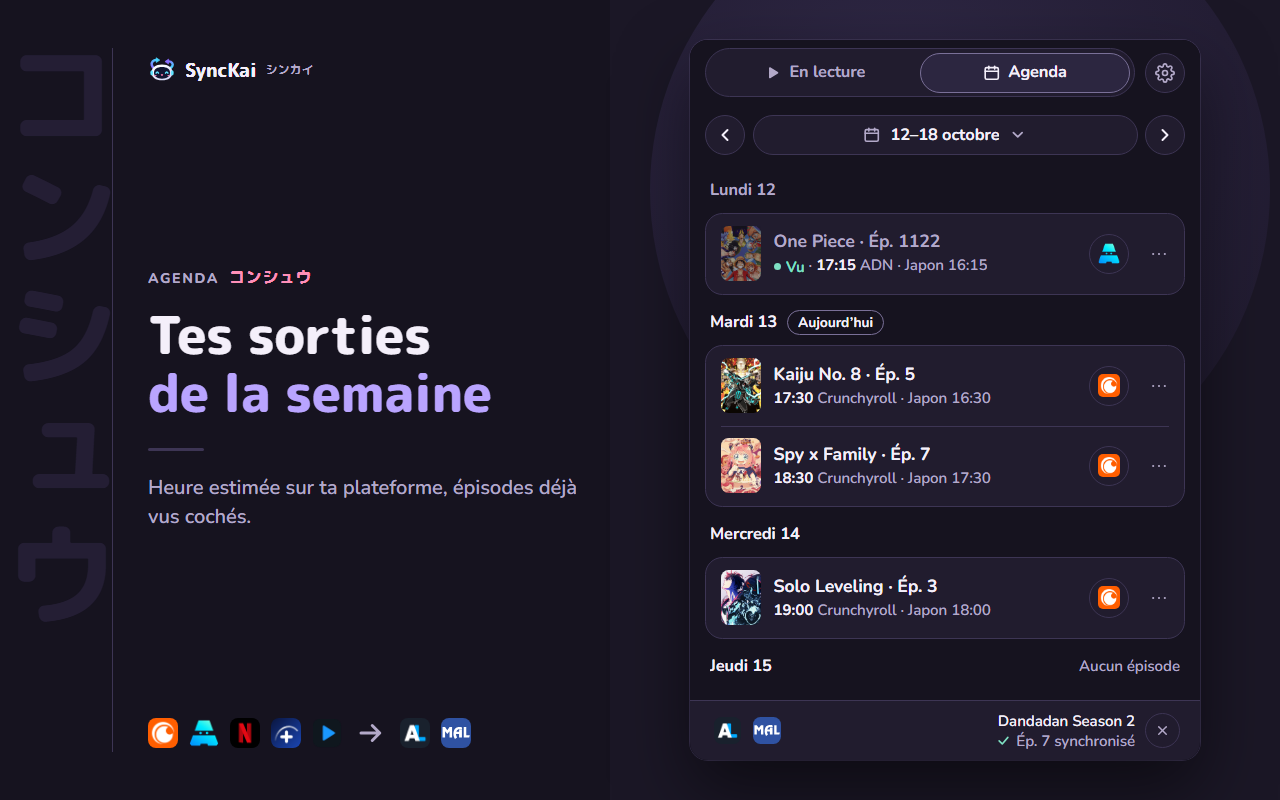
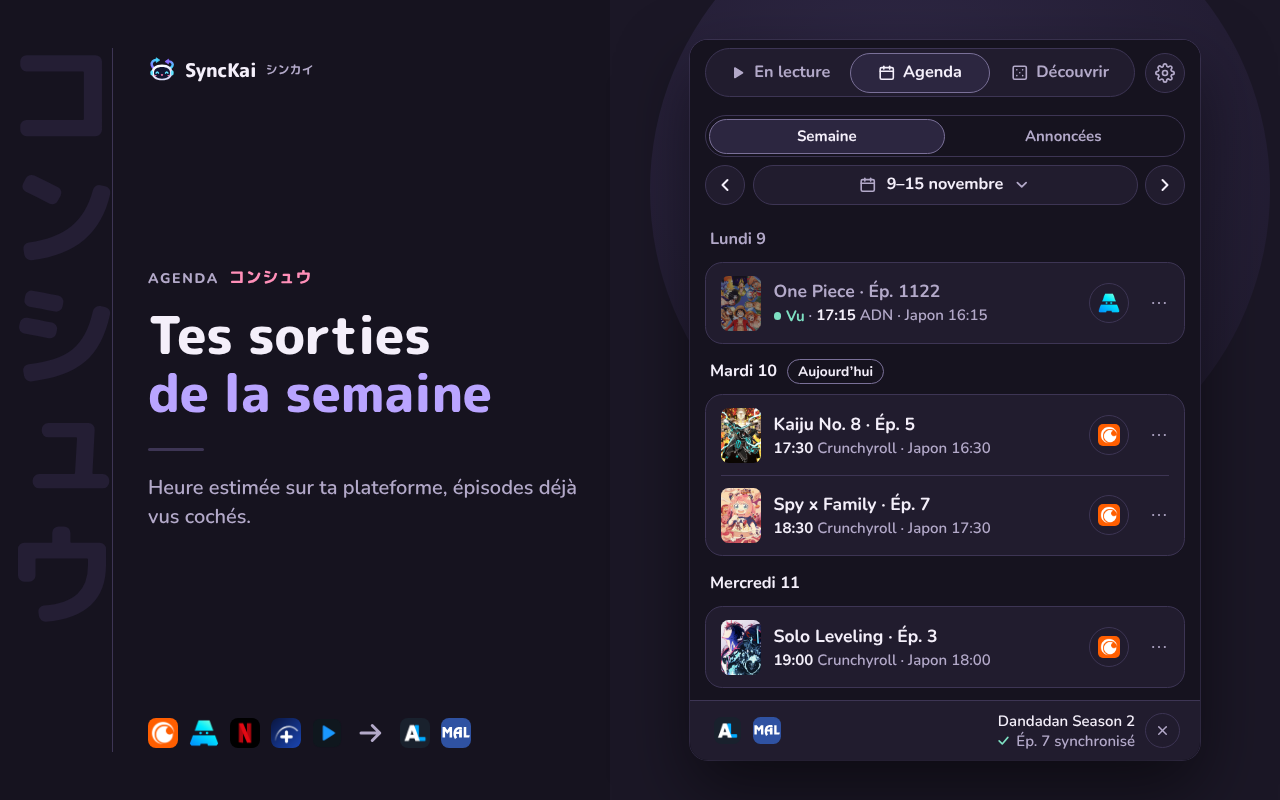
chore(release): 2.5.0

diff --git a/CHANGELOG.md b/CHANGELOG.md
@@ -5,6 +5,28 @@ Format based on [Keep a Changelog](https://keepachangelog.com/en/1.1.0/), versio
 
 ## [Unreleased]
 
+## [2.5.0] - 2026-11-10
+
+### Added
+
+- **Sequel alerts**: once a day, SyncKai checks on AniList whether a series you finished or are watching got a sequel, and tells you with a browser notification (« Sequel announced: … », with *Open entry* and *+ Plan to watch*) or, if you prefer, only in the popup's *Activity* tab. The side panel's *Schedule* gains an *Announced* view with the coming sequels, and the related entries of *Now playing* mark them. Turn it on or off in *Settings › Notifications › Sequel alerts*. Sequels already in one of your lists are never announced.
+- **Watch order** in the side panel: *Now playing* shows the whole franchise in release order (seasons, films, OVAs, side stories), with what you watched on AniList or MyAnimeList ticked off, what comes next and a *Watch* button on your preferred player. Runs of watched entries fold into one line (« 4 watched »).
+- **Recommendations**, read from AniList only: a new *Discover* tab in the side panel suggests series from what you rated highly (« Because you rated … ★ 9/10 ») or, without enough ratings, from what you watched, with their genres, *+ Plan to watch* and *Not interested*. *Now playing* adds an *In the same spirit* section, an empty *Schedule* week and an empty *Watching* list suggest a few series, and the suggestions you turned down can be restored from *Settings › My data*. A sequel is never suggested before the season you have not watched.
+- **Remaining time**: each series in *My series* shows the time left to catch up (« ≈ 50 min », episodes aired × their length), the list header the total (« ≈ 1 h to catch up · 2 series »), and two new sorts, *Time left* and *Episodes left*.
+- **Dormant series**: *Watching* series with no episode watched for 30 days (60, 90 or never in *Settings › Display*) are grouped at the bottom of *My series*, with *Pause*, *Drop* or *Keep* for each and *Put all on hold* for the group, with an *Undo* right after.
+- **Friends on AniList**: the series card shows the people you follow on AniList who have the series in their list, with their status and rating and their average. Only their public lists are read, and nothing is kept.
+- **Airing status** of each series in *My series* (« Airing », « Finished »…), with an *Airing status* sort that groups them.
+
+### Changed
+
+- **Popup navigation moved to a left rail**: *Watching*, *Activity* (with a dot when a sequel is announced) and *Settings* now sit in a narrow column on the left, and the popup grows to 496 × 600 to give the lists more room.
+- Status changes from the popup and the side panel no longer read the AniList catalogue entry when they don't need it.
+
+### Fixed
+
+- New-episode alerts: when the browser blocks SyncKai's notifications, the hourly check stops and *Settings › Notifications* says so, with how to allow them, instead of failing silently.
+- The series banner at the top of *Watching* stays while the pointer or the keyboard focus is inside it.
+
 ## [2.4.2] - 2026-11-08
 
 First published version since 2.4.0: 2.4.1 was prepared but never tagged nor published, and its changes (below) ship with this version.
